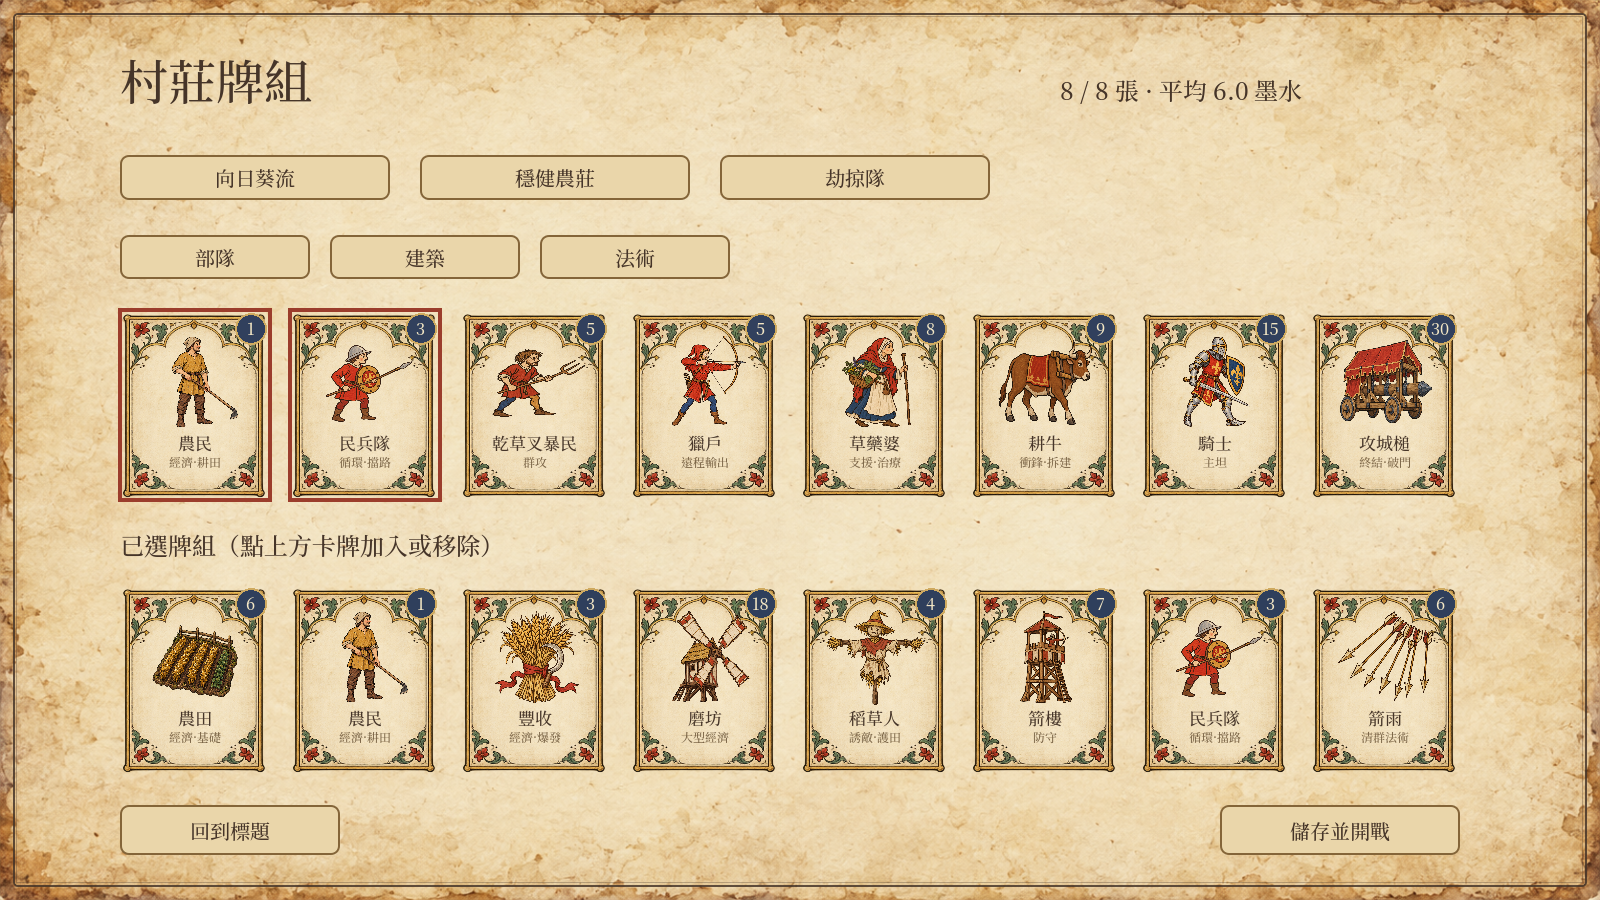
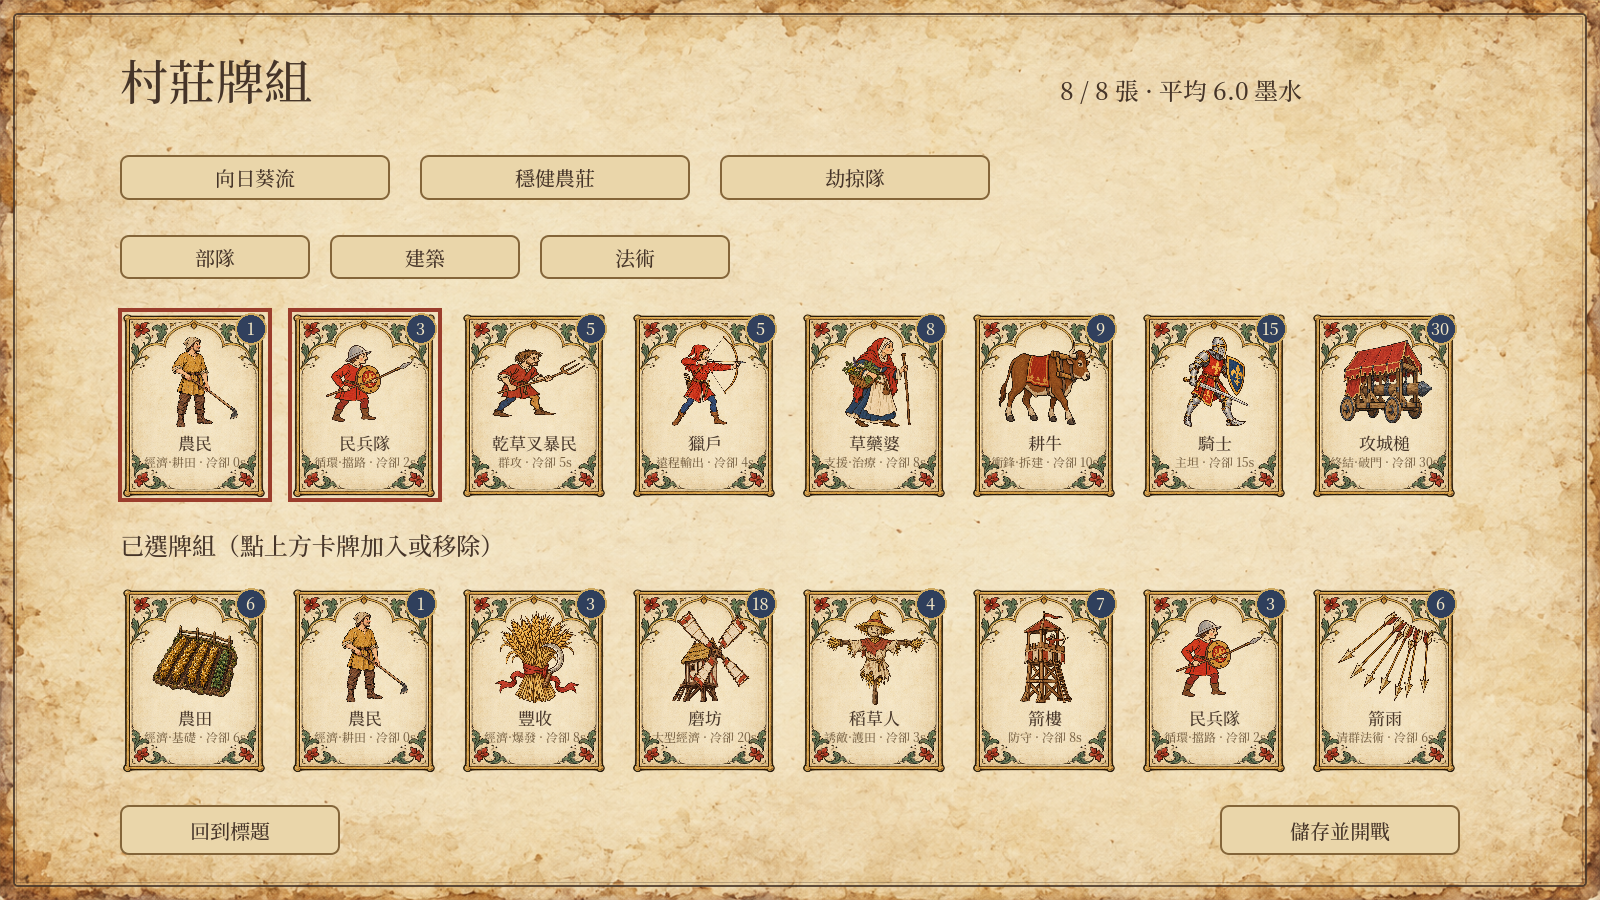
Per-card cooldowns replace the global play cooldown
Each card has its own cooldown (0-30 s: farmer 0 ... ram 30). A card
that enters the hand, including the opening hand, must wait that long
before it can be played; the hand slot shows a shrinking shade with the
seconds left, and a refused play explains the wait. The deck screen and
tooltips list each card's cooldown. The tutorial skips the wait for the
card it asks for. Producer decision 2026-10-29.

diff --git a/docs/企劃書.md b/docs/企劃書.md
@@ -9,6 +9,7 @@
 >   - **卡牌只分三類：部隊、建築、法術。部隊一律往敵方前進，不會回頭。**
 >   - **領主完全由 AI 接管**（雙方），沒有手動操作。
 > - v4.1：**墨水上限 10 → 50**。墨水數字整體 ×2（費用、回復、產量），讓費用分得更細；出牌冷卻、AI 門檻、介面跟著調整。
+> - v5.0（2026-10-29）：取消全域出牌冷卻，改成每張卡到手上後各自冷卻 0–30 秒（見第 9、11 節）。
 > - v4.8（2026-10-29）：修正領主打不到城門口敵兵；拆殘垣的敵兵最優先；領主回血大幅調降。
 > - v4.7（2026-10-29）：卡牌依定位重排，費用 1–30（見第 11 節）。
 > - v4.6（2026-10-29）：領主只能待在自家領地（原始 3 欄部署區），刪除旋斬與號令技能。
@@ -116,7 +117,7 @@
 
 - **牌組 8 張**，開局洗牌；**開局手牌一定有農田**（洗完若農田不在前 4 張，就換到手牌隨機一格）。**手牌 4 張**＋**下一張預覽**。打出的牌回到牌組最後面。
 - 選牌：滑鼠點手牌，或按 **1–4**；再點戰場放置。右鍵／Esc 取消。
-- **出牌冷卻 0.8 秒**〔調〕（上限 50 可以存很多墨水，冷卻讓「一次倒出 8 張牌」需要 6 秒以上，對手來得及反應）。
+- **卡牌冷卻（v5.0）**：每張卡有自己的冷卻秒數（0–30 秒）。卡牌一進到手上（包括開局手牌）就開始倒數，倒數完才能出；卡面蓋一層倒數秒數。沒有全域出牌冷卻。
 - 預覽：選牌時可放的格子高亮，滑鼠所在格顯示半透明圖；部隊顯示一條「會往前走的路線」並標出路上會被耕的農田；法術顯示範圍圓圈。墨水不足的牌變灰並顯示還差幾滴。
 - 牌組編成：開戰前在「牌組畫面」從卡池選 8 張，**至少 1 張農田**。提供 3 組預設牌組。存在 `user://deck.json`。
 
@@ -134,6 +135,7 @@
 
 | 費 | 卡 | 類型 | 定位 | 重點數值 |
 |---|---|---|---|---|
+|  |  |  |  | 冷卻（到手後）：農民 0、民兵 2、稻草人 3、獵戶 4、暴民 5、農田 6、箭雨 6、豐收 8、箭樓 8、草藥婆 8、耕牛 10、火罐 15、騎士 15、磨坊 20、攻城槌 30 秒 |
 | 1 | 農民 | 部隊 | 經濟·耕田 | 2 名，50 血；經過同一路我方農田停 1.5 秒耕地，田 15 秒內產量 ×2 |
 | 3 | 民兵隊 | 部隊 | 循環·擋路 | 2 名，85 血，13 傷害 / 0.95s |
 | 3 | 豐收 | 法術 | 經濟·爆發 | 半徑 120 內我方農田立刻各冒 1 滴，8 秒內 ×2 |
